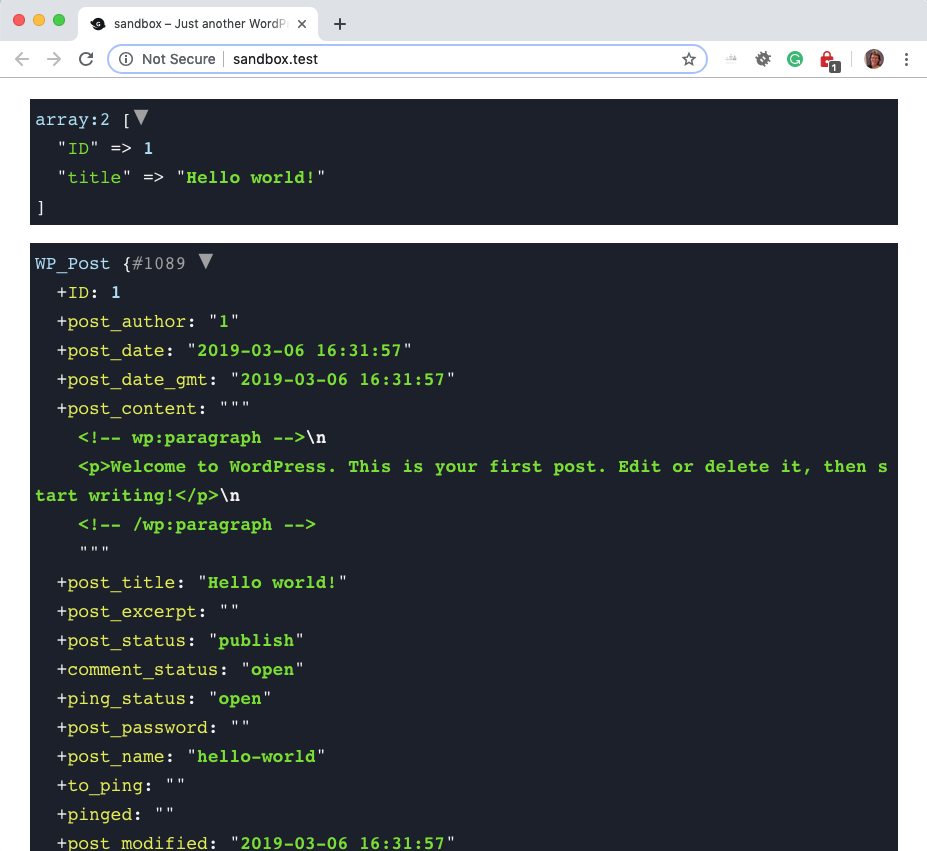
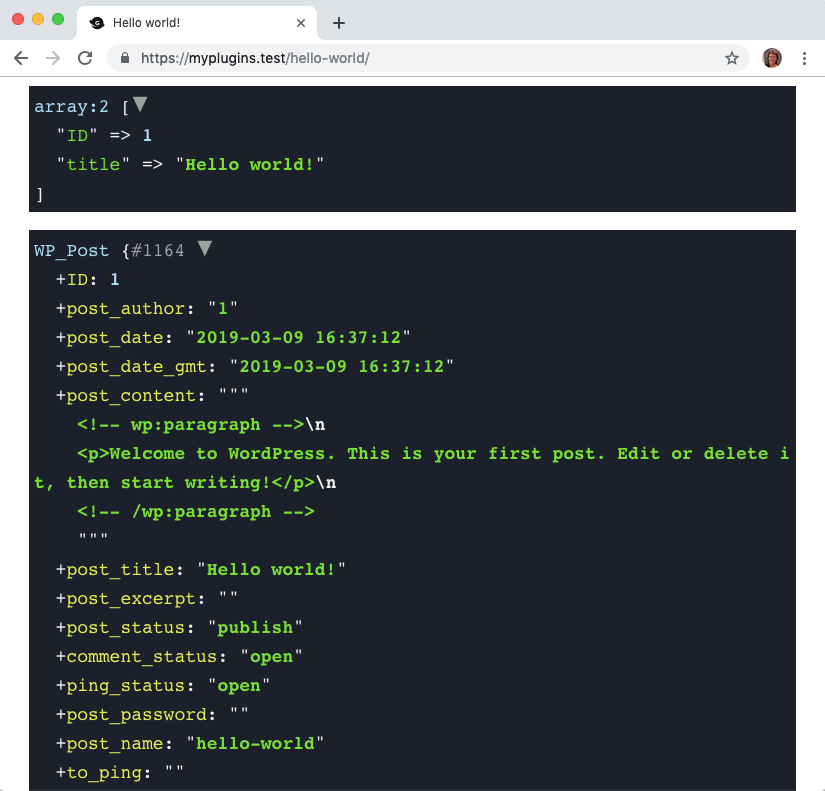
Removed changing Admin and Admin Bar colors.

Changed region(s): [[0.0, 0.0, 1.0, 1.0]]

diff --git a/src/class-admin-bar.php b/src/class-admin-bar.php
@@ -38,23 +38,11 @@ class Admin_Bar {
 	/**
 	 * Initializes by registering each hook's callback to the object.
 	 *
-	 * @since 1.0.0
+	 * @since 1.0.1
 	 */
 	public function init() {
-		add_filter( 'get_user_option_admin_color', [ $this, 'set_local_development_admin_color_scheme' ], 5 );
 		add_action( 'admin_bar_menu', [ $this, 'add_admin_bar_notice' ], 9999 );
 		add_action( 'admin_bar_init', [ $this, 'render_admin_bar_css' ], 9999 );
-	}
-
-	/**
-	 * Force different admin color scheme when this plugin is active.
-	 *
-	 * @since 1.0.0
-	 *
-	 * @return string
-	 */
-	public function set_local_development_admin_color_scheme() {
-		return $this->config['color_scheme'];
 	}
 
 	/**
@@ -84,7 +72,7 @@ class Admin_Bar {
 	/**
 	 * Render the admin bar CSS.
 	 *
-	 * @since 1.0.0
+	 * @since 1.0.1
 	 *
 	 * @return void
 	 */
@@ -95,22 +83,10 @@ class Admin_Bar {
 
 		$css =
 			'
-			#wpadminbar {
-				background-color: %s !important;
-			}
-		
-			#wp-admin-bar-environment-notice {
-				display: none;
-			}
-		
-			#wpadminbar .ab-item,
-			#wpadminbar a.ab-item,
-			#wpadminbar > #wp-toolbar span.ab-label,
-			#wpadminbar > #wp-toolbar span.noticon,
 			.adminbar--environment-notice {
 				color: #fff;
 			}
-		
+							
 			@media only screen and ( min-width: 800px ) {
 				#wp-admin-bar-environment-notice {
 					display: block;

diff --git a/config/admin-bar.php b/config/admin-bar.php
@@ -3,7 +3,7 @@
  * Admin Bar Runtime Configuration Parameters.
  *
  * @package     KnowTheCode\DebugToolkit
- * @since       1.0.0
+ * @since       1.0.1
  * @author      hellofromTonya
  * @link        https://github.com/KnowTheCode/debug-toolkit
  * @license     GNU-2.0+
@@ -13,11 +13,9 @@ namespace KnowTheCode\DebugToolkit;
 
 return [
 	'message'      => 'DEBUG ACTIVE',
-	'color_scheme' => 'coffee',
 	'colors'       => [
-		'admin_bar_background_color' => '#627f00',
 		'message_background_color'   => '#cb4b14',
-		'message_hover_color'        => '#1b202d',
+		'message_hover_color'        => '#627f00',
 	],
 	'css_file'     => _get_plugin_root_dir() . '/assets/css/admin-bar.php',
 ];

diff --git a/debug-toolkit.php b/debug-toolkit.php
@@ -10,7 +10,7 @@
  * Plugin Name:       Debug Toolkit
  * Plugin URI:        https://wordpress.org/plugins/debug-toolkit
  * Description:       Code debug made easier and more enjoyable.  A suite of tools to help you debug your code.
- * Version:           1.0.0
+ * Version:           1.0.1
  * Author:            hellofromTonya
  * Author URI:        https://KnowTheCode.io
  * Text Domain:       debugtoolkit
